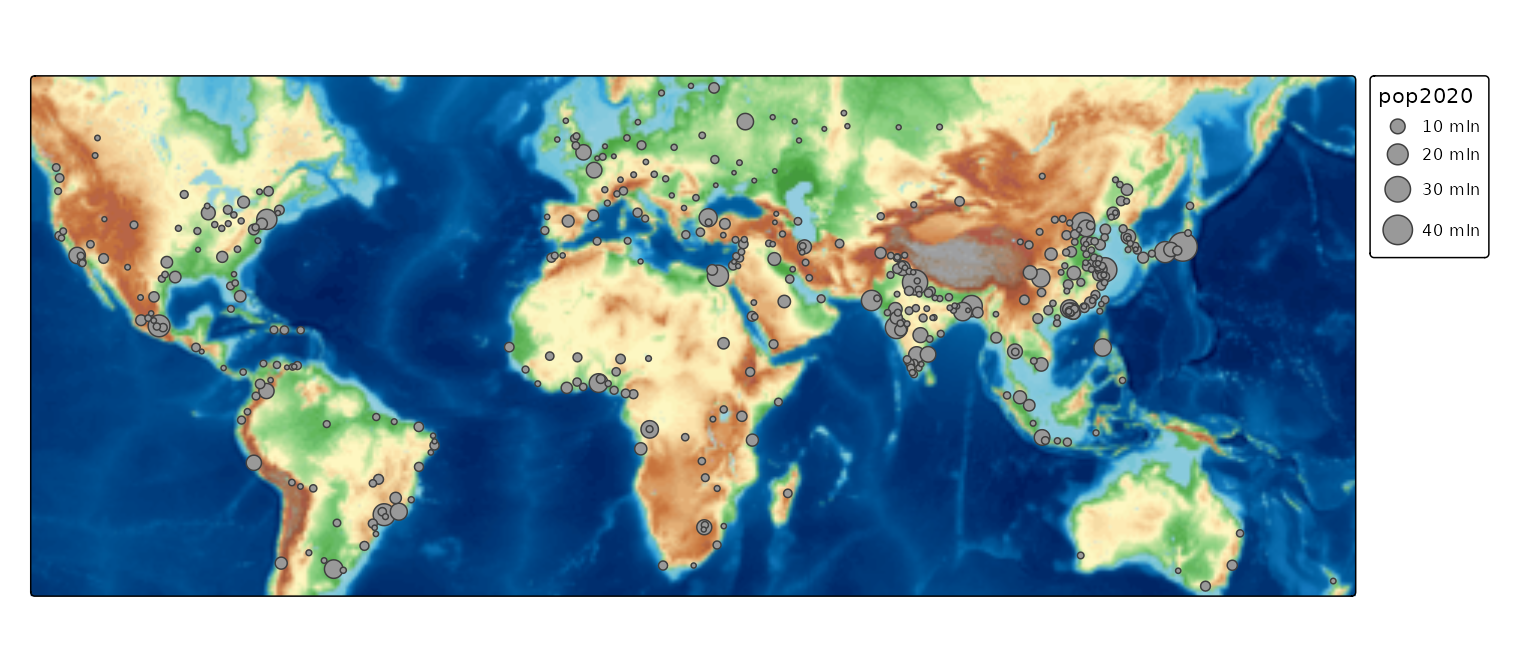
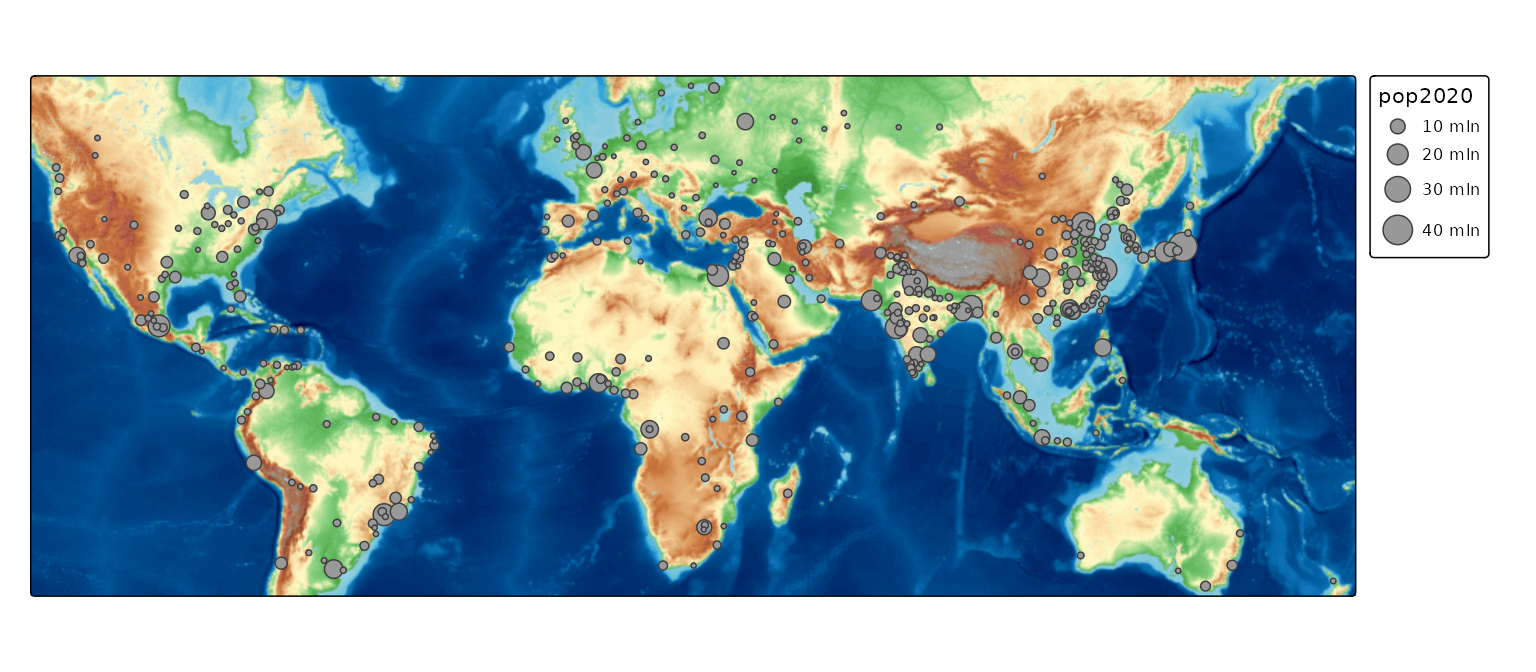
Deploying to gh-pages from @ r-tmap/tmap@a950e0f52cb5d4300aa48e050c2e0493d5e37e04 🚀

diff --git a/articles/adv_animations.html b/articles/adv_animations.html
@@ -127,7 +127,7 @@
       <img src="../logo.png" class="logo" alt=""><h1>tmap advanced: animations</h1>
             
       
-      <small class="dont-index">Source: <a href="https://github.com/r-tmap/tmap/blob/master/vignettes/adv_animations.Rmd" class="external-link"><code>vignettes/adv_animations.Rmd</code></a></small>
+      <small class="dont-index">Source: <a href="https://github.com/r-tmap/tmap/blob/4.4-1/vignettes/adv_animations.Rmd" class="external-link"><code>vignettes/adv_animations.Rmd</code></a></small>
       <div class="d-none name"><code>adv_animations.Rmd</code></div>
     </div>
 

diff --git a/articles/adv_blend.html b/articles/adv_blend.html
@@ -127,7 +127,7 @@
       <img src="../logo.png" class="logo" alt=""><h1>tmap advanced: layer blending</h1>
             
       
-      <small class="dont-index">Source: <a href="https://github.com/r-tmap/tmap/blob/master/vignettes/adv_blend.Rmd" class="external-link"><code>vignettes/adv_blend.Rmd</code></a></small>
+      <small class="dont-index">Source: <a href="https://github.com/r-tmap/tmap/blob/4.4-1/vignettes/adv_blend.Rmd" class="external-link"><code>vignettes/adv_blend.Rmd</code></a></small>
       <div class="d-none name"><code>adv_blend.Rmd</code></div>
     </div>
 

diff --git a/articles/adv_comp_group.html b/articles/adv_comp_group.html
@@ -127,7 +127,7 @@
       <img src="../logo.png" class="logo" alt=""><h1>tmap advanced: grouping of components</h1>
             
       
-      <small class="dont-index">Source: <a href="https://github.com/r-tmap/tmap/blob/master/vignettes/adv_comp_group.Rmd" class="external-link"><code>vignettes/adv_comp_group.Rmd</code></a></small>
+      <small class="dont-index">Source: <a href="https://github.com/r-tmap/tmap/blob/4.4-1/vignettes/adv_comp_group.Rmd" class="external-link"><code>vignettes/adv_comp_group.Rmd</code></a></small>
       <div class="d-none name"><code>adv_comp_group.Rmd</code></div>
     </div>
 

diff --git a/articles/adv_ggplot2.html b/articles/adv_ggplot2.html
@@ -127,7 +127,7 @@
       <img src="../logo.png" class="logo" alt=""><h1>tmap advanced: ggplot2 integration</h1>
             
       
-      <small class="dont-index">Source: <a href="https://github.com/r-tmap/tmap/blob/master/vignettes/adv_ggplot2.Rmd" class="external-link"><code>vignettes/adv_ggplot2.Rmd</code></a></small>
+      <small class="dont-index">Source: <a href="https://github.com/r-tmap/tmap/blob/4.4-1/vignettes/adv_ggplot2.Rmd" class="external-link"><code>vignettes/adv_ggplot2.Rmd</code></a></small>
       <div class="d-none name"><code>adv_ggplot2.Rmd</code></div>
     </div>
 

diff --git a/articles/adv_groups.html b/articles/adv_groups.html
@@ -129,7 +129,7 @@
       <img src="../logo.png" class="logo" alt=""><h1>tmap advanced: layer groups (view mode only)</h1>
             
       
-      <small class="dont-index">Source: <a href="https://github.com/r-tmap/tmap/blob/master/vignettes/adv_groups.Rmd" class="external-link"><code>vignettes/adv_groups.Rmd</code></a></small>
+      <small class="dont-index">Source: <a href="https://github.com/r-tmap/tmap/blob/4.4-1/vignettes/adv_groups.Rmd" class="external-link"><code>vignettes/adv_groups.Rmd</code></a></small>
       <div class="d-none name"><code>adv_groups.Rmd</code></div>
     </div>
 

diff --git a/articles/adv_inset_maps.html b/articles/adv_inset_maps.html
@@ -133,7 +133,7 @@
       <img src="../logo.png" class="logo" alt=""><h1>tmap advanced: inset maps and minimaps</h1>
             
       
-      <small class="dont-index">Source: <a href="https://github.com/r-tmap/tmap/blob/master/vignettes/adv_inset_maps.Rmd" class="external-link"><code>vignettes/adv_inset_maps.Rmd</code></a></small>
+      <small class="dont-index">Source: <a href="https://github.com/r-tmap/tmap/blob/4.4-1/vignettes/adv_inset_maps.Rmd" class="external-link"><code>vignettes/adv_inset_maps.Rmd</code></a></small>
       <div class="d-none name"><code>adv_inset_maps.Rmd</code></div>
     </div>
 

diff --git a/articles/adv_legends.html b/articles/adv_legends.html
@@ -127,7 +127,7 @@
       <img src="../logo.png" class="logo" alt=""><h1>tmap advanced: legends</h1>
             
       
-      <small class="dont-index">Source: <a href="https://github.com/r-tmap/tmap/blob/master/vignettes/adv_legends.Rmd" class="external-link"><code>vignettes/adv_legends.Rmd</code></a></small>
+      <small class="dont-index">Source: <a href="https://github.com/r-tmap/tmap/blob/4.4-1/vignettes/adv_legends.Rmd" class="external-link"><code>vignettes/adv_legends.Rmd</code></a></small>
       <div class="d-none name"><code>adv_legends.Rmd</code></div>
     </div>
 

diff --git a/articles/adv_margins.html b/articles/adv_margins.html
@@ -127,7 +127,7 @@
       <img src="../logo.png" class="logo" alt=""><h1>tmap advanced: margins and aspect ratio</h1>
             
       
-      <small class="dont-index">Source: <a href="https://github.com/r-tmap/tmap/blob/master/vignettes/adv_margins.Rmd" class="external-link"><code>vignettes/adv_margins.Rmd</code></a></small>
+      <small class="dont-index">Source: <a href="https://github.com/r-tmap/tmap/blob/4.4-1/vignettes/adv_margins.Rmd" class="external-link"><code>vignettes/adv_margins.Rmd</code></a></small>
       <div class="d-none name"><code>adv_margins.Rmd</code></div>
     </div>
 

diff --git a/articles/adv_multivariate.html b/articles/adv_multivariate.html
@@ -127,7 +127,7 @@
       <img src="../logo.png" class="logo" alt=""><h1>tmap advanced: multiple map variables</h1>
             
       
-      <small class="dont-index">Source: <a href="https://github.com/r-tmap/tmap/blob/master/vignettes/adv_multivariate.Rmd" class="external-link"><code>vignettes/adv_multivariate.Rmd</code></a></small>
+      <small class="dont-index">Source: <a href="https://github.com/r-tmap/tmap/blob/4.4-1/vignettes/adv_multivariate.Rmd" class="external-link"><code>vignettes/adv_multivariate.Rmd</code></a></small>
       <div class="d-none name"><code>adv_multivariate.Rmd</code></div>
     </div>
 

diff --git a/articles/adv_options.html b/articles/adv_options.html
@@ -127,7 +127,7 @@
       <img src="../logo.png" class="logo" alt=""><h1>tmap advanced: options</h1>
             
       
-      <small class="dont-index">Source: <a href="https://github.com/r-tmap/tmap/blob/master/vignettes/adv_options.Rmd" class="external-link"><code>vignettes/adv_options.Rmd</code></a></small>
+      <small class="dont-index">Source: <a href="https://github.com/r-tmap/tmap/blob/4.4-1/vignettes/adv_options.Rmd" class="external-link"><code>vignettes/adv_options.Rmd</code></a></small>
       <div class="d-none name"><code>adv_options.Rmd</code></div>
     </div>
 

diff --git a/articles/adv_positions.html b/articles/adv_positions.html
@@ -127,7 +127,7 @@
       <img src="../logo.png" class="logo" alt=""><h1>tmap advanced: positioning of components</h1>
             
       
-      <small class="dont-index">Source: <a href="https://github.com/r-tmap/tmap/blob/master/vignettes/adv_positions.Rmd" class="external-link"><code>vignettes/adv_positions.Rmd</code></a></small>
+      <small class="dont-index">Source: <a href="https://github.com/r-tmap/tmap/blob/4.4-1/vignettes/adv_positions.Rmd" class="external-link"><code>vignettes/adv_positions.Rmd</code></a></small>
       <div class="d-none name"><code>adv_positions.Rmd</code></div>
     </div>
 

diff --git a/articles/adv_shiny.html b/articles/adv_shiny.html
@@ -127,7 +127,7 @@
       <img src="../logo.png" class="logo" alt=""><h1>tmap advanced: options</h1>
             
       
-      <small class="dont-index">Source: <a href="https://github.com/r-tmap/tmap/blob/master/vignettes/adv_shiny.Rmd" class="external-link"><code>vignettes/adv_shiny.Rmd</code></a></small>
+      <small class="dont-index">Source: <a href="https://github.com/r-tmap/tmap/blob/4.4-1/vignettes/adv_shiny.Rmd" class="external-link"><code>vignettes/adv_shiny.Rmd</code></a></small>
       <div class="d-none name"><code>adv_shiny.Rmd</code></div>
     </div>
 